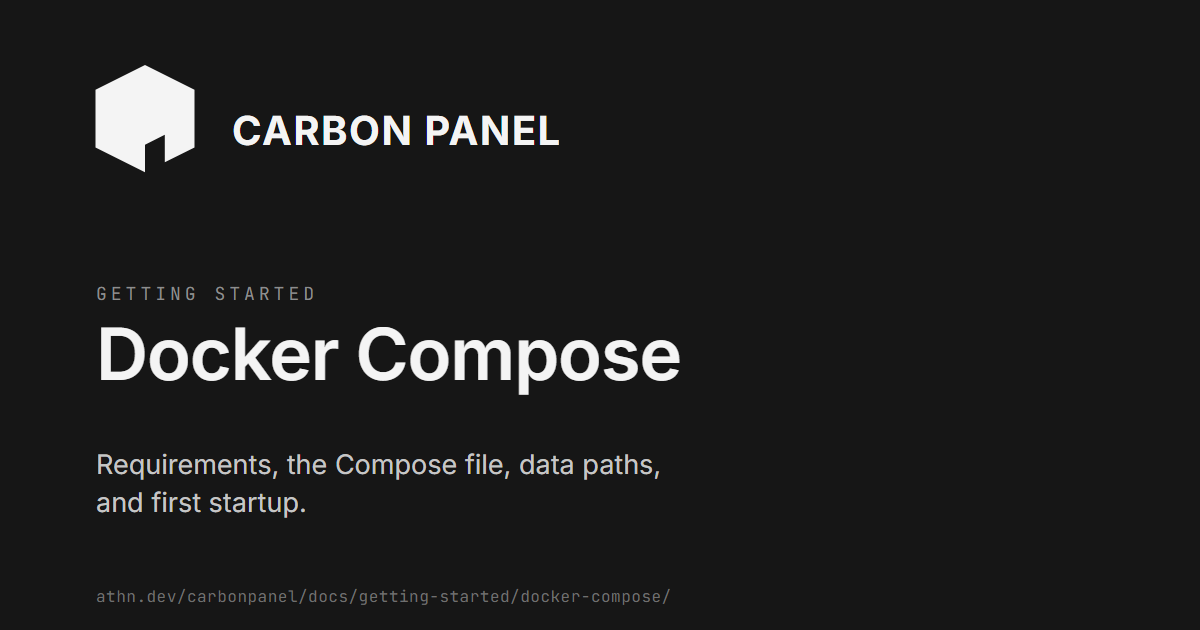
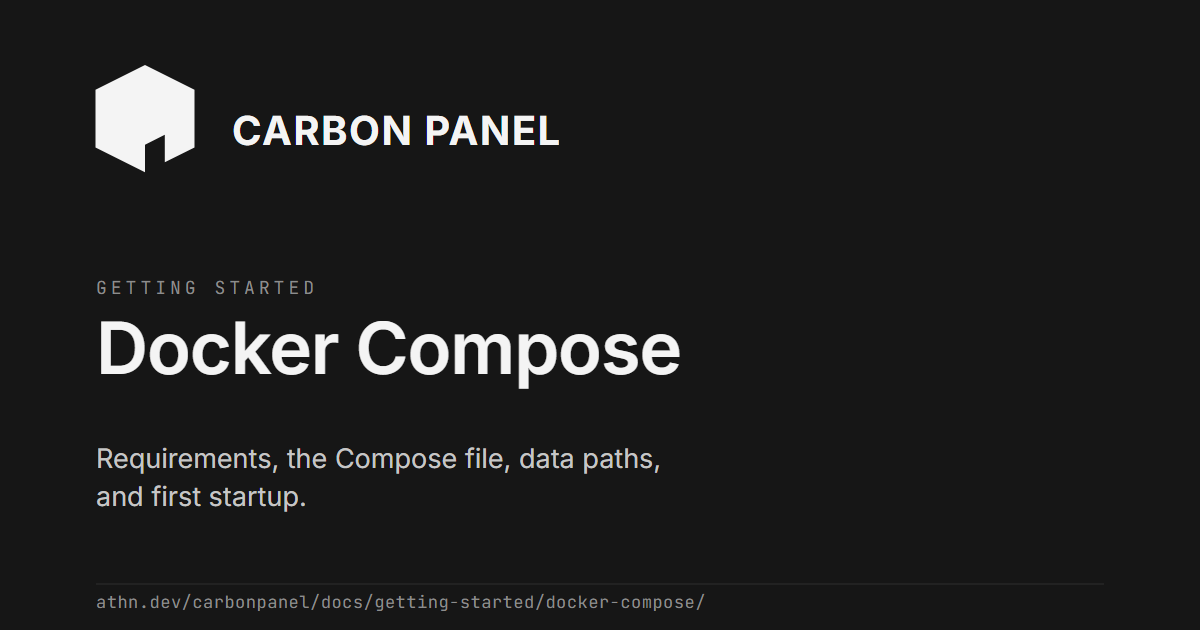
Refine the social card layout
Group the URL in a footer band with a rule, rebalance the vertical rhythm, and bump the card cache version so previews refresh.

diff --git a/docs/design-system/index.html b/docs/design-system/index.html
@@ -14,7 +14,7 @@
 		<meta property="og:title" content="Carbon design system | Carbon Panel" />
 		<meta property="og:description" content="The shared design language for Carbon Panel and Carbon Cloud: color, type, spacing, elevation, motion, components and patterns." />
 		<meta property="og:url" content="https://athn.dev/carbonpanel/design-system/" />
-		<meta property="og:image" content="https://athn.dev/carbonpanel/assets/og-design-system.png?v=1" />
+		<meta property="og:image" content="https://athn.dev/carbonpanel/assets/og-design-system.png?v=2" />
 		<meta property="og:image:type" content="image/png" />
 		<meta property="og:image:width" content="1200" />
 		<meta property="og:image:height" content="630" />
@@ -22,7 +22,7 @@
 		<meta name="twitter:card" content="summary_large_image" />
 		<meta name="twitter:title" content="Carbon design system | Carbon Panel" />
 		<meta name="twitter:description" content="The shared design language for Carbon Panel and Carbon Cloud: color, type, spacing, elevation, motion, components and patterns." />
-		<meta name="twitter:image" content="https://athn.dev/carbonpanel/assets/og-design-system.png?v=1" />
+		<meta name="twitter:image" content="https://athn.dev/carbonpanel/assets/og-design-system.png?v=2" />
 		<meta name="twitter:image:alt" content="Carbon Design System. Foundations, components and patterns shared by Carbon Panel and Carbon Cloud." />
 		<script type="application/ld+json">
 			{
@@ -35,7 +35,7 @@
 				"inLanguage": "en",
 				"primaryImageOfPage": {
 					"@type": "ImageObject",
-					"url": "https://athn.dev/carbonpanel/assets/og-design-system.png?v=1",
+					"url": "https://athn.dev/carbonpanel/assets/og-design-system.png?v=2",
 					"width": 1200,
 					"height": 630
 				}

diff --git a/docs/carbon-panel/public/api-reference.html b/docs/carbon-panel/public/api-reference.html
@@ -13,7 +13,7 @@
   <meta property="og:title" content="Carbon Panel API reference">
   <meta property="og:description" content="Every Connect RPC in Carbon Panel, generated from the protobuf definitions.">
   <meta property="og:url" content="https://athn.dev/carbonpanel/docs/api-reference.html">
-  <meta property="og:image" content="https://athn.dev/carbonpanel/assets/og-api.png?v=1">
+  <meta property="og:image" content="https://athn.dev/carbonpanel/assets/og-api.png?v=2">
   <meta property="og:image:type" content="image/png">
   <meta property="og:image:width" content="1200">
   <meta property="og:image:height" content="630">
@@ -21,7 +21,7 @@
   <meta name="twitter:card" content="summary_large_image">
   <meta name="twitter:title" content="Carbon Panel API reference">
   <meta name="twitter:description" content="Every Connect RPC in Carbon Panel, generated from the protobuf definitions.">
-  <meta name="twitter:image" content="https://athn.dev/carbonpanel/assets/og-api.png?v=1">
+  <meta name="twitter:image" content="https://athn.dev/carbonpanel/assets/og-api.png?v=2">
   <meta name="twitter:image:alt" content="Carbon Panel API reference generated from the protobuf definitions.">
   <script src="https://cdn.jsdelivr.net/npm/@scalar/api-reference@1.76.2"></script>
   <style>

diff --git a/scripts/generate_social_cards.py b/scripts/generate_social_cards.py
@@ -80,12 +80,12 @@ def page_style():
 
 def card_html(card):
     lines = len(card["title"])
-    title_top = 380 if lines == 1 else 366
+    title_top = 374 if lines == 1 else 356
     svg_title = "".join(
         f'<tspan x="96" y="{title_top + index * 82}">{line}</tspan>'
         for index, line in enumerate(card["title"])
     )
-    subtitle_top = 474 if lines == 1 else 528
+    subtitle_top = 468 if lines == 1 else 512
     svg_subtitle = "".join(
         f'<tspan x="96" y="{subtitle_top + index * 38}">{line}</tspan>'
         for index, line in enumerate(card["subtitle"])
@@ -99,13 +99,14 @@ def card_html(card):
   <path d="{MARK}" fill="#f4f4f4"/>
   <text x="232" y="145" fill="#f4f4f4" font-family="Inter" font-weight="700"
         font-size="40" letter-spacing="1.5">CARBON PANEL</text>
-  <text x="96" y="300" fill="#8d8d8d" font-family="'JetBrains Mono'" font-weight="400"
+  <text x="96" y="294" fill="#8d8d8d" font-family="'JetBrains Mono'" font-weight="400"
         font-size="18" letter-spacing="4">{card["eyebrow"]}</text>
   <text fill="#f4f4f4" font-family="Inter" font-weight="600" font-size="72"
         letter-spacing="-1">{svg_title}</text>
   <text fill="#c6c6c6" font-family="Inter" font-weight="400" font-size="27">{svg_subtitle}</text>
-  <text x="96" y="602" fill="#6f6f6f" font-family="'JetBrains Mono'" font-weight="400"
-        font-size="16" letter-spacing="0.5">{card["url"]}</text>
+  <line x1="96" y1="584" x2="1104" y2="584" stroke="#2f2f2f" stroke-width="1"/>
+  <text x="96" y="608" fill="#8d8d8d" font-family="'JetBrains Mono'" font-weight="400"
+        font-size="17" letter-spacing="0.5">{card["url"]}</text>
 </svg>
 </body></html>"""
 

diff --git a/scripts/test_website.py b/scripts/test_website.py
@@ -103,7 +103,7 @@ class WebsiteTests(unittest.TestCase):
             self.assertIn("github.com/athNdev/carbonpanel/blob/main/docs/design-system/README.md", page)
             self.assertNotIn("../../web/carbon-panel/", page)
             self.assertIn('property="og:image"', page)
-            self.assertIn('content="https://athn.dev/carbonpanel/assets/og-design-system.png?v=1"', page)
+            self.assertIn('content="https://athn.dev/carbonpanel/assets/og-design-system.png?v=2"', page)
             self.assertEqual(
                 (design / "tokens.css").read_bytes(),
                 (root / "web/carbon-panel/src/lib/design-system/tokens.css").read_bytes())

diff --git a/CHANGELOG.md b/CHANGELOG.md
@@ -35,6 +35,8 @@ Format follows [Keep a Changelog](https://keepachangelog.com/en/1.1.0/).
 
 ### Fixed
 
+- Social preview cards: balanced vertical spacing with a footer rule and a clearer URL line.
+
 - Creating a server from a modpack keeps the RAM value you enter; the pack recommendation is shown as a hint instead of silently replacing it.
 
 - Landing product tour: even rows now give the screenshot the wide column, so all four captures render at the same readable size.

diff --git a/web/carbon-panel/src/lib/changelog.md b/web/carbon-panel/src/lib/changelog.md
@@ -35,6 +35,8 @@ Format follows [Keep a Changelog](https://keepachangelog.com/en/1.1.0/).
 
 ### Fixed
 
+- Social preview cards: balanced vertical spacing with a footer rule and a clearer URL line.
+
 - Creating a server from a modpack keeps the RAM value you enter; the pack recommendation is shown as a hint instead of silently replacing it.
 
 - Landing product tour: even rows now give the screenshot the wide column, so all four captures render at the same readable size.
